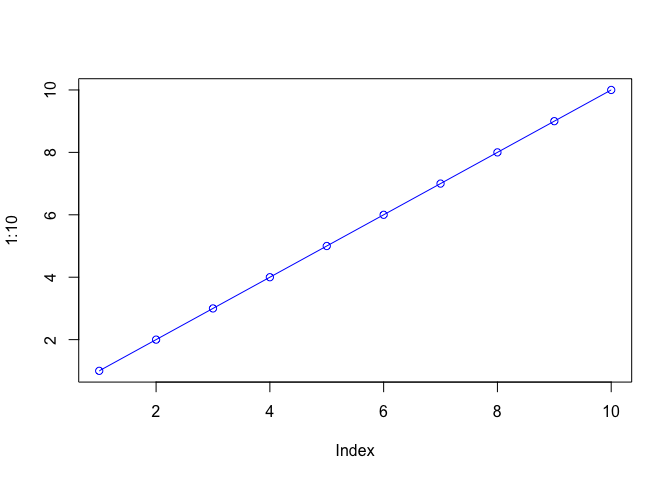
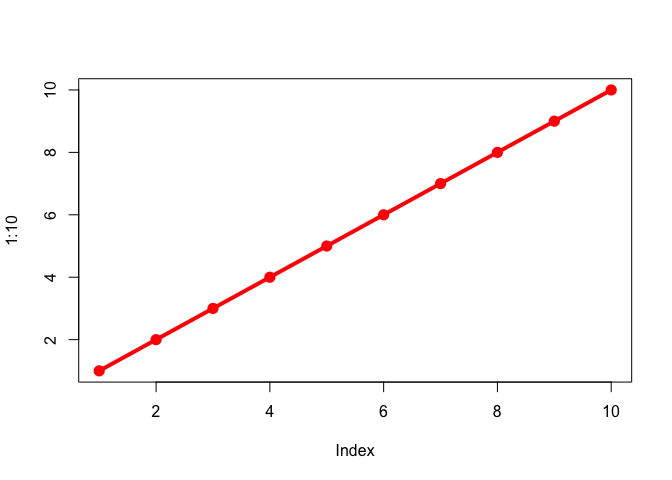
change to red plot fig1

diff --git a/test_files/Untitled.md b/test_files/Untitled.md
@@ -5,7 +5,7 @@ GitHub Documents
 ----------------
 
 ``` r
-plot(1:10, typ="o",col="blue")
+plot(1:10, typ="o",col="red",lwd=4)
 ```
 
 ![](Untitled_files/figure-markdown_github/unnamed-chunk-3-1.png)
